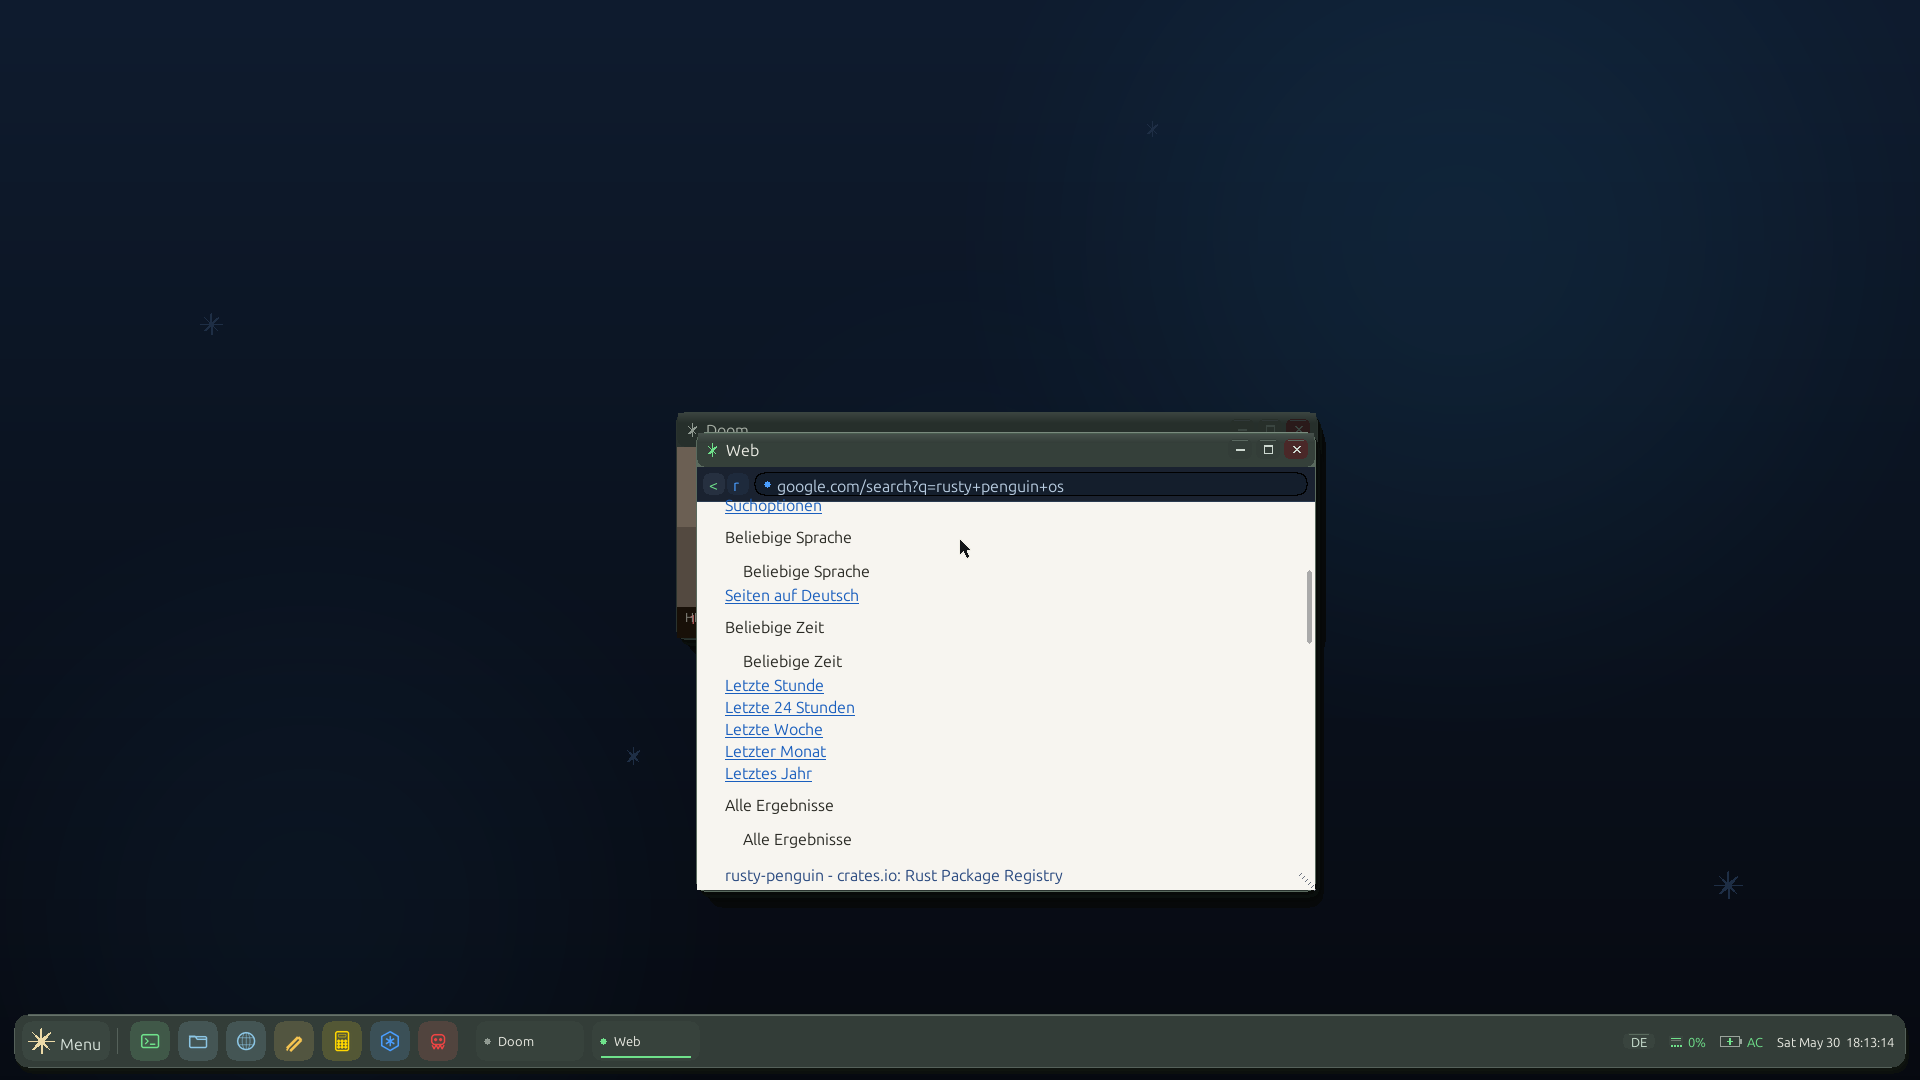
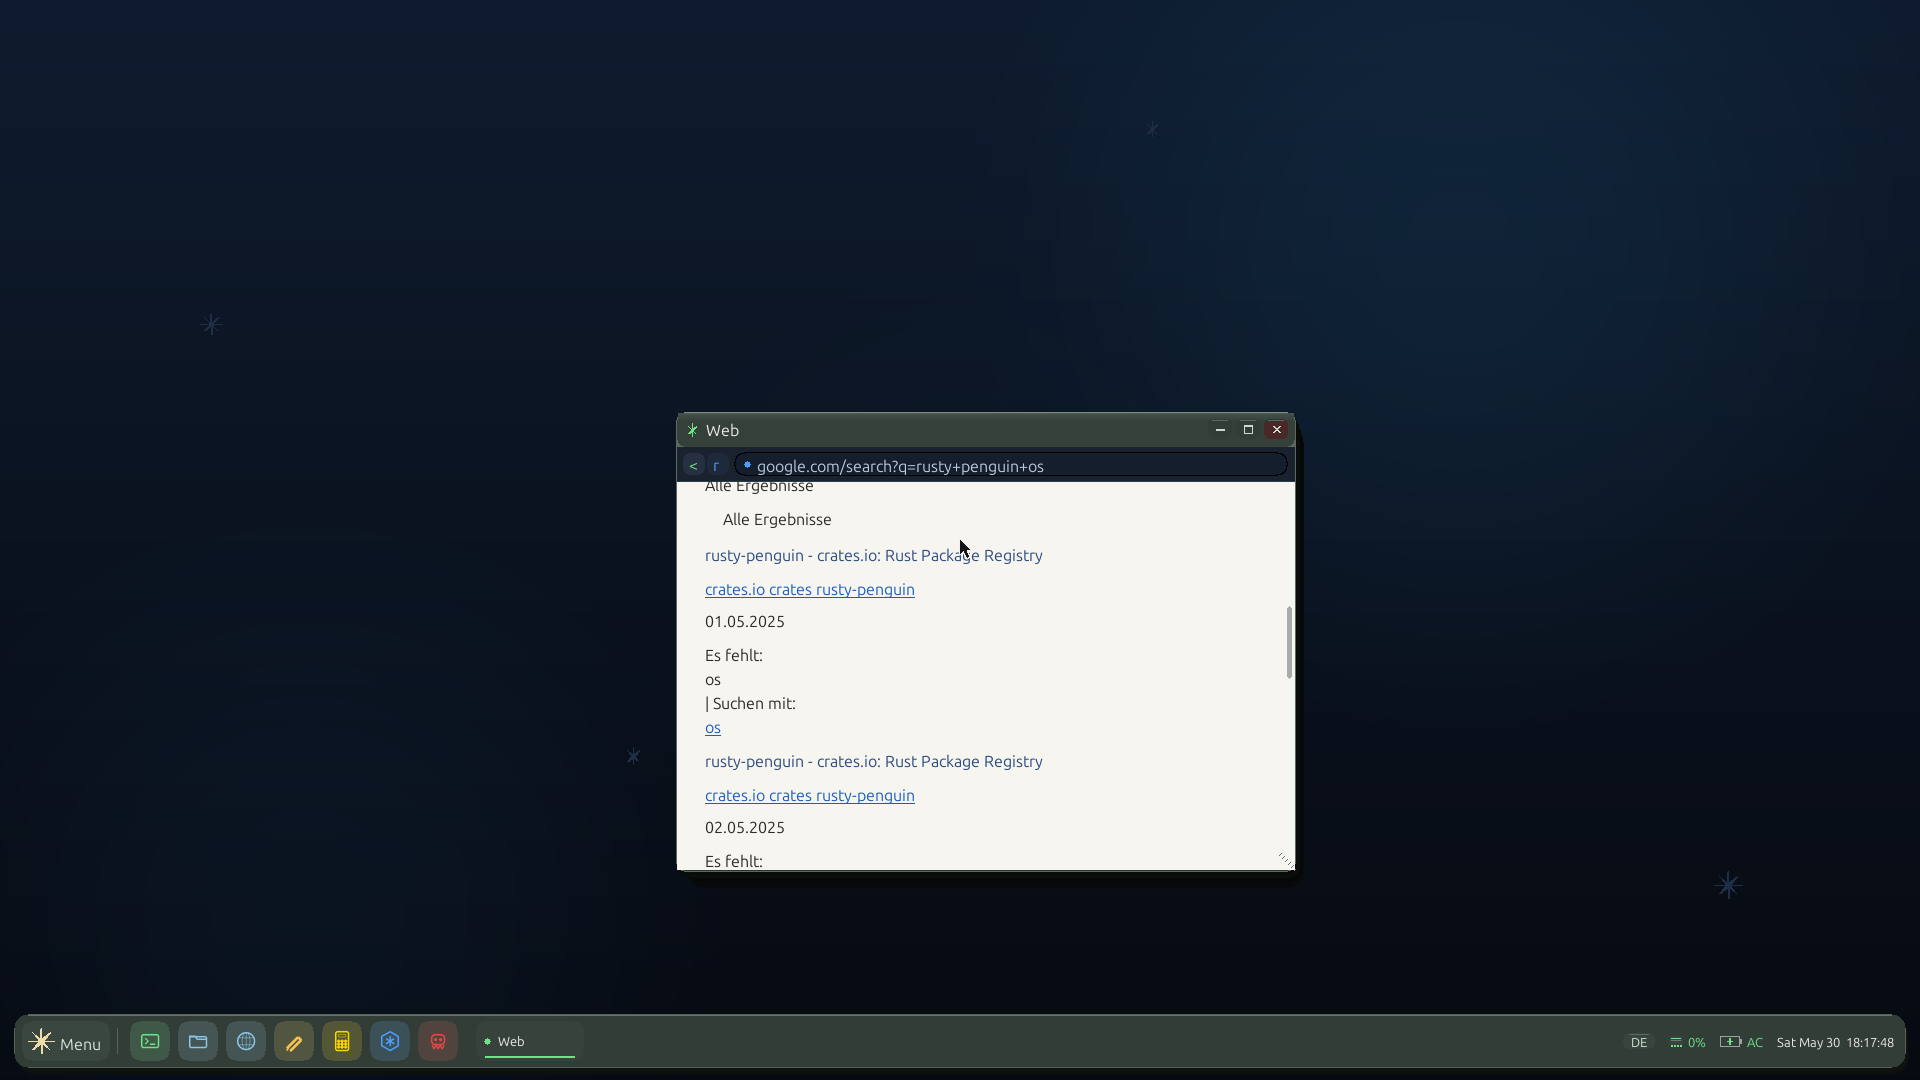
hero: Rusty Penguin Googles itself on its own kernel
Replace hero image with the definitive screenshot: Rusty Penguin's own browser,
running on the pure-Rust bare-metal kernel, fetches google.com/search and finds
"rusty-penguin - crates.io: Rust Package Registry" in the live results.
Address bar shows the real URL. No X11, no Wayland, no libc, no Linux kernel.

Changed region(s): [[0.3438, 0.3667, 0.6875, 0.825], [0.25, 0.9472, 0.2812, 0.9778]]

diff --git a/README.md b/README.md
@@ -21,11 +21,10 @@ Preinstalled: `albert` · `ternlang` · `albert-cli` · `ternlang-mcp`
 
 ![Rusty Penguin desktop v2.3](docs/rusty-penguin-desktop-v2.3.png)
 
-*Live multitasking on bare metal at 1920×1080: browser fetching google.com/search
-over our own TLS 1.3 stack — real search results rendered with our HTML engine
-(clickable links including "rusty-penguin - crates.io: Rust Package Registry") running
-alongside DOOM — two windows, two taskbar entries, no X11, no Wayland, no libc, no
-Linux kernel.*
+*Rusty Penguin Googles itself — on its own bare-metal kernel. The OS fetches
+`google.com/search?q=rusty+penguin+os` over our own TLS 1.3 stack and finds
+**"rusty-penguin - crates.io: Rust Package Registry"** in the results. No X11,
+no Wayland, no libc, no Linux kernel underneath.*
 
 ---
 
